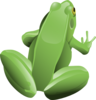
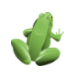
changed screen added movement of player and lizard and flies

diff --git a/js/engine.js b/js/engine.js
@@ -80,7 +80,7 @@ var Engine = (function(global) {
      */
     function update(dt) {
         updateEntities(dt);
-        /*heckCollisions(allEnemies, player);*/
+        /*checkCollisions(allEnemies, player);*/
     }
 
     /* This is called by the update function  and loops through all of the
@@ -96,7 +96,11 @@ var Engine = (function(global) {
         allEnemies.forEach(function(enemy) {
             enemy.update(dt);
         });
-      player.update();
+        player.update();
+        allFoods.forEach(function(food) {
+            food.update(dt);
+        });
+     
     }
 
     /* This function initially draws the "game level", it will then call
@@ -109,22 +113,30 @@ var Engine = (function(global) {
         /* This array holds the relative URL to the image used
          * for that particular row of the game level.
          */
+     
+         renderOneImages()
         var rowImages = [
-                'images/water-block.png',   // Top row is water
-                'images/stone-block.png',   // Row 1 of 3 of stone
-                'images/stone-block.png',   // Row 2 of 3 of stone
-                'images/stone-block.png',   // Row 3 of 3 of stone
-                'images/grass-block.png',   // Row 1 of 2 of grass
-                'images/grass-block.png'    // Row 2 of 2 of grass
+               /* 'images/water.png',   // Top row is water*/
+                'images/grass.png',   // Row 1 of 4 of stone
+                'images/grass.png',   // Row 2 of 4 of stone
+                'images/grass.png',   // Row 3 of 4 of stone
+                'images/grass.png',   // Row 4 of 4 of stone
+                'images/grass.png'   // Row 4 of 4 of stone
+                /*'images/mud.png',   // Row 1 of 2 of grass
+                'images/mud.png'    // Row 2 of 2 of grass*/
             ],
-            numRows = 6,
-            numCols = 5,
+
+        
+            numRows = 5,
+            numCols = 4,
             row, col;
 
         /* Loop through the number of rows and columns we've defined above
          * and, using the rowImages array, draw the correct image for that
          * portion of the "grid"
          */
+
+         
         for (row = 0; row < numRows; row++) {
             for (col = 0; col < numCols; col++) {
                 /* The drawImage function of the canvas' context element
@@ -134,15 +146,81 @@ var Engine = (function(global) {
                  * so that we get the benefits of caching these images, since
                  * we're using them over and over.
                  */
-                ctx.drawImage(Resources.get(rowImages[row]), col * 101, row * 83);
+
+                ctx.drawImage(Resources.get(rowImages[row]),0,80,col * 251, row * 100);
             }
         }
-
-
+        
+        renderTwoImages()
         renderEntities();
 
     }
 
+
+
+function renderOneImages() {
+        var rowOneImages = [
+                'images/water.png',   // Top row is water
+                'images/mud.png'
+            ],
+
+        
+            numRows = 2,
+            numCols = 1,
+            row, col;
+
+        /* Loop through the number of rows and columns we've defined above
+         * and, using the rowImages array, draw the correct image for that
+         * portion of the "grid"
+         */
+
+         
+        for (row = 0; row < numRows; row++) {
+            for (col = 0; col < numCols; col++) {
+                /* The drawImage function of the canvas' context element
+                 * requires 3 parameters: the image to draw, the x coordinate
+                 * to start drawing and the y coordinate to start drawing.
+                 * We're using our Resources helpers to refer to our images
+                 * so that we get the benefits of caching these images, since
+                 * we're using them over and over.
+                 */
+                ctx.drawImage(Resources.get(rowOneImages[row]), 0, 40, 550, 80);
+            }
+        }
+        
+    }
+
+    function renderTwoImages() {
+        var rowTwoImages = [
+            'images/mud.png',   // Row 1 of 2 of grass
+            'images/mud.png'    // Row 2 of 2 of grass
+            ],
+
+        
+            numRows = 2,
+            numCols = 1,
+            row, col;
+
+        /* Loop through the number of rows and columns we've defined above
+         * and, using the rowImages array, draw the correct image for that
+         * portion of the "grid"
+         */
+
+         
+        for (row = 0; row < numRows; row++) {
+            for (col = 0; col < numCols; col++) {
+                /* The drawImage function of the canvas' context element
+                 * requires 3 parameters: the image to draw, the x coordinate
+                 * to start drawing and the y coordinate to start drawing.
+                 * We're using our Resources helpers to refer to our images
+                 * so that we get the benefits of caching these images, since
+                 * we're using them over and over.
+                 */
+                ctx.drawImage(Resources.get(rowTwoImages[row]), 0,400 , 580, 180);
+            }
+        }
+        
+    }
     /* This function is called by the render function and is called on each game
      * tick. It's purpose is to then call the render functions you have defined
      * on your enemy and player entities within app.js
@@ -155,8 +233,11 @@ var Engine = (function(global) {
             enemy.render();
         });
 
-       player.render();
-    }
+        player.render();
+        allFoods.forEach(function(food) {
+            food.render();
+          });
+     }
 
     /* This function does nothing but it could have been a good place to
      * handle game reset states - maybe a new game menu or a game over screen
@@ -176,9 +257,13 @@ var Engine = (function(global) {
         'images/grass-block.png',
         'images/enemy-bug.png',
         'images/char-boy.png',
-        'images/char-cat-girl.png',
-        'images/char-horn-girl.png',
-        'images/char-pink-girl.png',
+        'images/frog.png',
+        'images/bee.png',
+        'images/lizard.png',
+        'images/grass.png',
+        'images/mud.png',
+        'images/water.png',
+        'images/sprites.png',
         'images/char-princess-girl.png'
     ]);
     Resources.onReady(init);

diff --git a/js/app.js b/js/app.js
@@ -2,7 +2,7 @@
 
 
 var enemyPosY = [65, 145, 267];
-var enemySpeed = [100, 450, 600, 200, 250, 300, 400];
+var enemySpeed = [60, 325, 600, 200, 250, 100, 400];
 
 
 var Enemy = function() {
@@ -13,8 +13,8 @@ var Enemy = function() {
 
     // The image/sprite for our enemies, this uses
     // a helper we've provided to easily load images
-    this.sprite = 'images/enemy-bug.png';
-    this.x = -100;
+    this.sprite = 'images/lizard.png';
+    this.x = -300;
     this.y = enemyPosY[Math.floor(Math.random() * 3)];
     this.speed = enemySpeed[Math.floor(Math.random() * 7)];;
 }
@@ -26,7 +26,7 @@ Enemy.prototype.update = function(dt) {
     // which will ensure the game runs at the same speed for
     // all computers.
         if (this.x > 600) {
-        this.x = -100;
+        this.x = -300;
         this.y = enemyPosY[Math.floor(Math.random() * 3)];
     //--activates enemy instances by incrementing their x positions by a randomly determined speed--
     } else {
@@ -57,6 +57,65 @@ function createEnemies(number) {
 }
 createEnemies(6);
 
+var foodPosY = [65, 145, 267];
+var foodSpeed = [50, 450, 500, 100, 250, 300, 400];
+
+
+var Food = function() {
+    // Variables applied to each of our instances go here,
+    // we've provided one for you to get started
+
+
+
+    // The image/sprite for our enemies, this uses
+    // a helper we've provided to easily load images
+    this.sprite = 'images/bee.png';
+    this.x =520;
+    this.y = foodPosY[Math.floor(Math.random() * 3)];
+    this.speed = foodSpeed[Math.floor(Math.random() * 7)];;
+}
+
+// Update the enemy's position, required method for game
+// Parameter: dt, a time delta between ticks
+Food.prototype.update = function(dt) {
+    // You should multiply any movement by the dt parameter
+    // which will ensure the game runs at the same speed for
+    // all computers.
+        if (this.x >600) {
+        this.x =520;
+        this.y = foodPosY[Math.floor(Math.random() * 3)];
+    //--activates enemy instances by incrementing their x positions by a randomly determined speed--
+    } else {
+        if (this.x < -15){
+            this.x = 520;
+            this.x -=(Math.random() * this.speed + 1) * dt
+        }else{
+        this.x -=(Math.random() * this.speed + 1) * dt;
+    }
+ }
+}
+
+
+//creates instance of enemies
+var numbers 
+var allFoods = [];
+
+
+// Draw the enemy on the screen, required method for game
+Food.prototype.render = function() {
+    ctx.drawImage(Resources.get(this.sprite), this.x, this.y);
+}
+
+function createFoods(numbers) {
+
+
+    for (var i = 0; i < numbers; i++) {
+        var food = new Food();
+        allFoods.push(food);
+
+    }
+}
+createFoods(6);
 
 // Now write your own player class
 // This class requires an update(), render() and
@@ -64,9 +123,10 @@ createEnemies(6);
 
 
 var player = function() {
-  this.sprite = 'images/char-boy.png';
+  this.sprite = 'images/frog.png';
     this.x = 200;
-    this.y = 430;
+    this.y = 455;
+    this.AnimationFrame
 }
 
 
@@ -89,21 +149,27 @@ player.prototype.render = function() {
 
 player.prototype.reset = function() {
   this.x = 200;
-  this.y = 430;
-}
+  this.y = 455;
 
+}
+/*101*/
 player.prototype.handleInput = function(playMove) {
   if (playMove == 'left' && this.x > 0) {
-    this.x -= 101;
+  
+    this.x -= 30;
     }
   else if (playMove == 'right' && this.x < 400) {
-    this.x += 101;
+
+    this.x += 30;
   }
-  else if (playMove == 'up' &&  this.y > 30) {
-    this.y -= 101;
-  }
+  else if (playMove == 'up' &&  this.y -40> 30) {
+   
+    this.y -= 30;
+
+      }
   else if (playMove == 'down' && this.y < 430) {
-    this.y += 101;
+
+    this.y += 30;
   }
 }
 
@@ -121,6 +187,9 @@ document.addEventListener('keyup', function(e) {
 
     player.handleInput(allowedKeys[e.keyCode]);
 });
+
+
+
 // cross-browser request AnimationFrame
 var requestAnimFrame = (function(){
     return window.requestAnimationFrame       ||

diff --git a/index.html b/index.html
@@ -3,11 +3,14 @@
 <head>
     <title>Effective JavaScript: Frogger</title>
     <link rel="stylesheet" href="css/style.css">
+    <link rel="stylesheet" href="css/sprites.css">
 </head>
 <body>
-    <script src="js/resources.js"></script>
+	<script src="https://code.jquery.com/jquery-1.11.0.min.js"></script>
+	<script src="js/resources.js"></script>
     <script src="js/app.js"></script>
     <script src="js/engine.js"></script>
+    <script src="vendor/threex/THREEx.KeyboardState.js"></script> 
     <canvas> id= "canvas"</canvas>
 
 </body>

diff --git a/css/sprites.css b/css/sprites.css
@@ -1,0 +1,28 @@
+.frog, .frog-right, .frog-down, .frog-left{
+	background: url(sprites.png) no-repeat;
+}
+
+.frog{
+	background-position: -1px 0;
+	width: 75px;
+	height: 78px;
+}
+
+.frog-right{
+	background-position: -102px 0;
+	width: 75px;
+	height: 78px;
+}
+
+.frog-down{
+	background-position: -201px 0;
+	width: 75px;
+	height: 78px;
+}
+
+.frog-left{
+	background-position: -299px 0;
+	width: 75px;
+	height: 78px;
+}
+

diff --git a/css/style.css b/css/style.css
@@ -1,4 +1,6 @@
 body {
     text-align: center;
    
+   }
+
 }
